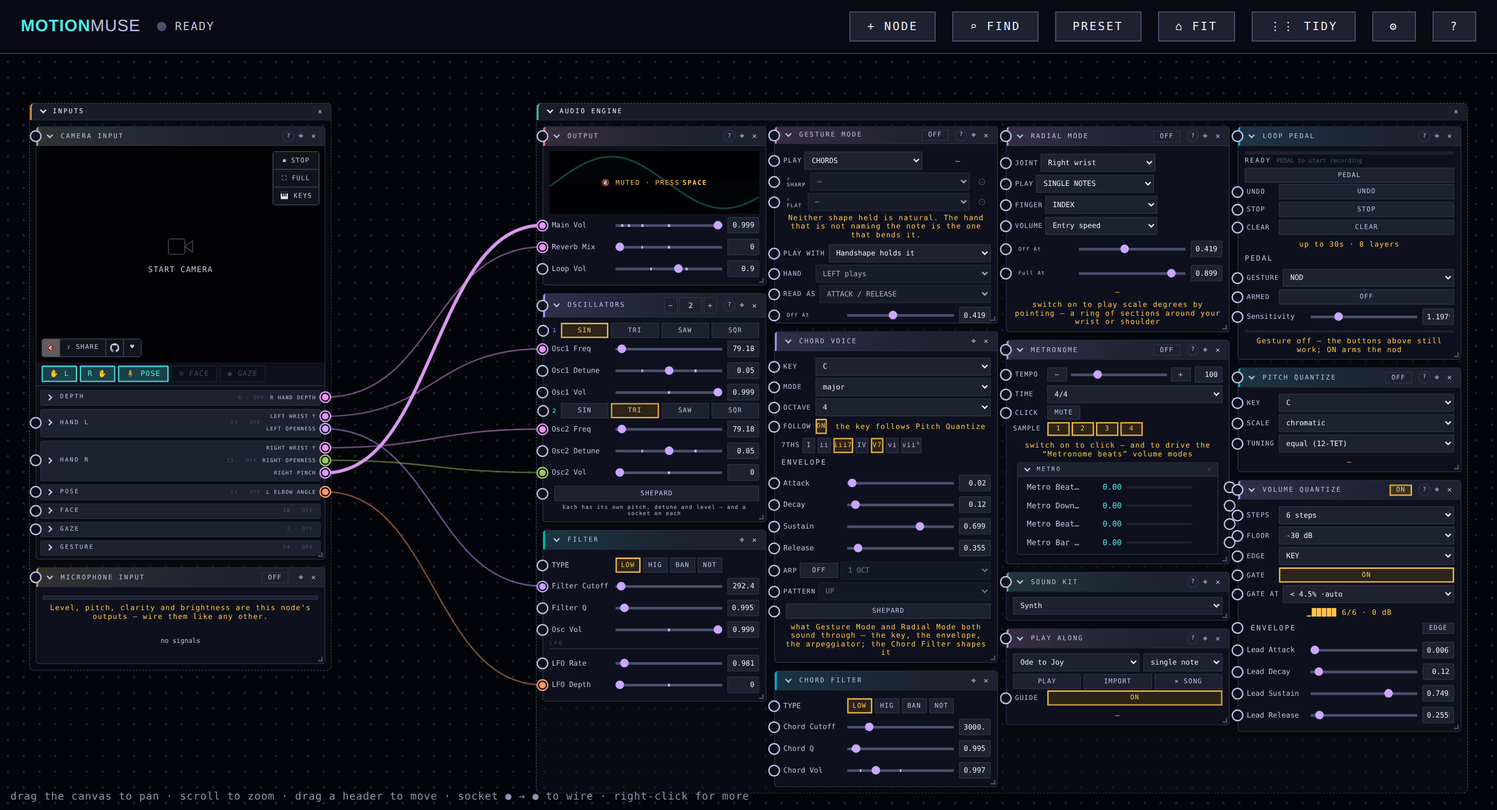
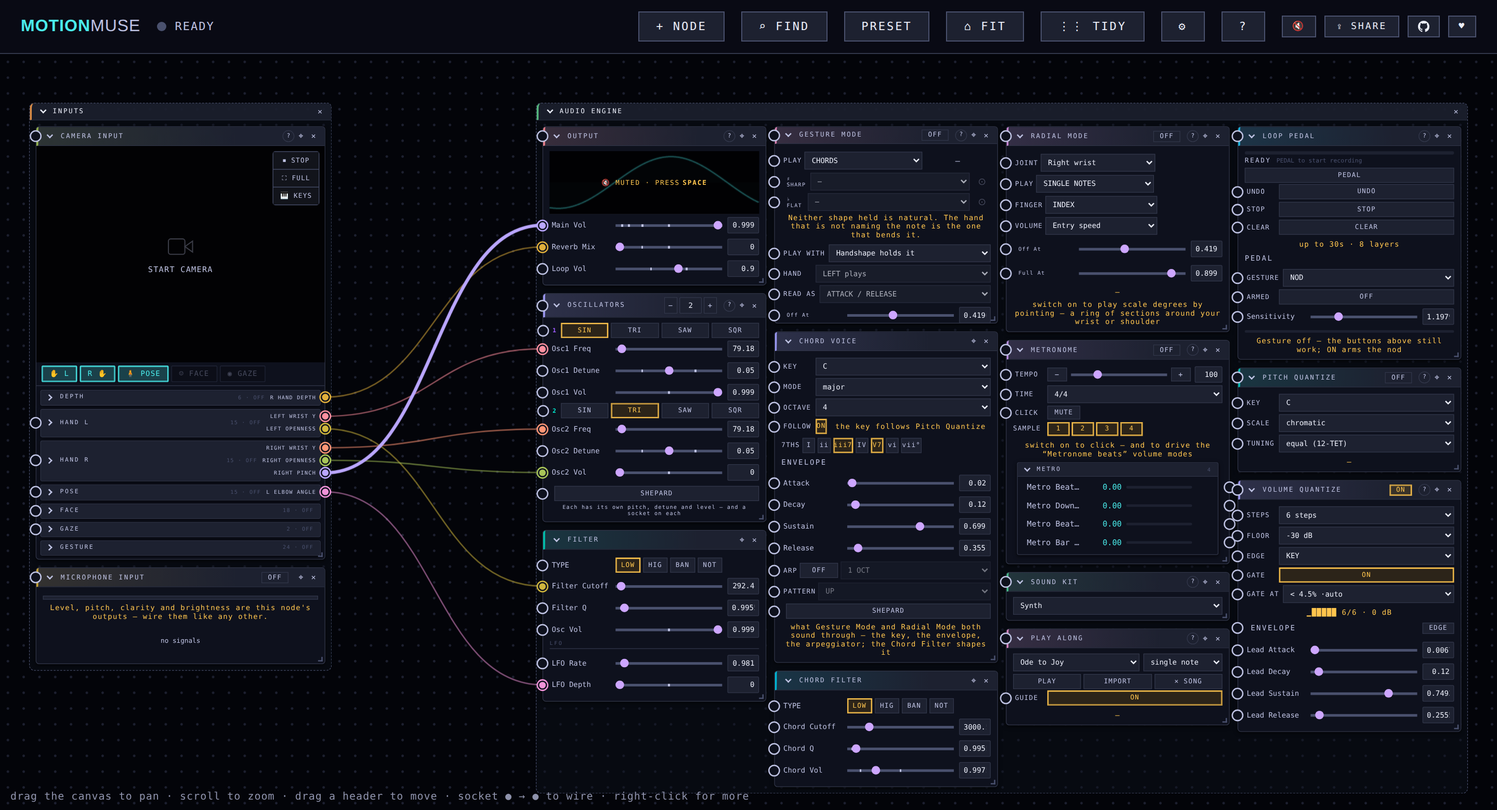
The picture's strip joins the bar; FIT leaves the column; hues by the golden angle
Mute, SHARE, the source link and ♥ used to sit bottom-left on the
picture. They are controls of the tool, not of the picture, so they are
in the header bar now with everything else of that kind — a row of
their own under the buttons on a phone. Fullscreen has no bar, so
ui/fullscreen.js moves the same strip onto the picture for the duration
and back; the ♥ popover is fixed and placed beside the ♥ wherever it is,
opening upward from a phone's bottom bar or the fullscreen edge.

FIT is hidden in the column like TIDY: a column is already fitted, and
a pinch in is its map.

Signal colours walk the hue wheel by the golden angle — each signal, in
the order the bus registers them, sits 360°/φ round from the one before
— so neighbouring sockets and the cables from them are never alike, and
no run of them cycles back onto itself. A signal's colour is the same
every visit, because the order is the boot order.

Tests: the camera-controls checks read the strip in the header when
windowed and on the picture in fullscreen; the column checks FIT and
TIDY hidden and open the map by call; a hue-gap check at every width.
Screenshot regenerated.

Claude-Session: https://claude.ai/code/session_01BeH99B2SGqBgjwvZViFus7

diff --git a/tests/layout/index.js b/tests/layout/index.js
@@ -333,7 +333,20 @@ for (const width of WIDTHS) {
         });
         return { outs: outs.length, offOut: offOut.length, ins: ins.length, offIn: offIn.map(p => p.dataset.key) };
       })(),
+
     };
+  });
+
+  // Neighbouring sockets in a list are never alike: hues walk the wheel by
+  // the golden angle, so two in a row are at least a third of it apart.
+  const hues = await page.evaluate(async () => {
+    const { sigColor } = await import('/src/ui/mapper-ui.js');
+    const hue = k => parseFloat(/oklch\([^)]*?\s([\d.]+)\)/.exec(sigColor(k))?.[1] ?? 'NaN');
+    const keys = [...document.querySelectorAll('#cam-signals .sig-sec-body .port-out')].map(p => p.dataset.key);
+    const hs = keys.map(hue);
+    const gaps = [];
+    for (let i = 1; i < hs.length; i++) { const d = Math.abs(hs[i] - hs[i - 1]) % 360; gaps.push(Math.min(d, 360 - d)); }
+    return { n: keys.length, min: gaps.length ? Math.round(Math.min(...gaps)) : null, nan: hs.filter(Number.isNaN).length };
   });
 
   // Every slider takes a typed value (ui/numeric.js).
@@ -380,7 +393,7 @@ for (const width of WIDTHS) {
     };
   });
 
-  results.push({ width, off, on, nodes, sigPanel, nums, errs });
+  results.push({ width, off, on, nodes, sigPanel, nums, hues, errs });
   await page.close();
 }
 
@@ -916,6 +929,7 @@ const column = await (async () => {
       camW: Math.round(document.querySelector('[data-node="panel:camera"]').getBoundingClientRect().width),
       scrollTop: ws.scrollTop,
       dockFirst: ws.firstElementChild.id,
+      fitHidden: document.getElementById('fit-btn').hidden, tidyHidden: document.getElementById('tidy-btn').hidden,
     };
   });
   const fresh = await probe();
@@ -938,7 +952,8 @@ const column = await (async () => {
 
   // ⌂ is the map: the whole stack scaled to the screen; a tap on it scrolls
   // to the node under the finger.
-  await page.click('#fit-btn');
+  // The map, as a pinch in would open it (⌂ is not shown in the column).
+  await page.evaluate(async () => (await import('/src/ui/workspace.js')).enterOverview());
   await page.waitForTimeout(150);
   const map = await page.evaluate(async () => {
     const WS = await import('/src/ui/workspace.js');
@@ -1602,8 +1617,13 @@ const camctl = await (async () => {
                  right: Math.round((frame.right - r.right) / k), bottom: Math.round((frame.bottom - r.bottom) / k) },
       };
     };
+    const actionsEl = document.querySelector('.cam-actions');
+    const header = document.getElementById('header').getBoundingClientRect();
     return {
       ctrlH: tok('--cam-ctrl-h'), inset: tok('--cam-inset'), radius: tok('--cam-radius'),
+      actionsInHeader: actionsEl.parentElement.id === 'header',
+      actionsOnPicture: wrap.contains(actionsEl),
+      actionsInBar: [...actionsEl.children].every(c => { const r = c.getBoundingClientRect(); return r.top >= header.top - 0.5 && r.bottom <= header.bottom + 0.5; }),
       actions: bar('.cam-actions'), toggles: bar('.cam-toggles'),
       nameH: (() => {
         const n = document.getElementById('cam-name');
@@ -2177,7 +2197,7 @@ const check = (ok, label, detail = '') => {
 
 console.log('\nHeader and workspace — every breakpoint, camera off and on\n');
 
-for (const { width, off, on, nodes: n, sigPanel, nums, errs } of results) {
+for (const { width, off, on, nodes: n, sigPanel, nums, hues, errs } of results) {
   const w = `${width}px`;
   check(errs.length === 0, `${w}: no page errors`, errs.join(' | '));
 
@@ -2259,6 +2279,8 @@ for (const { width, off, on, nodes: n, sigPanel, nums, errs } of results) {
     `${w}: every channel of the camera's list is an output socket`, `${sp.srcs} sockets for ${sp.vals} channels`);
   check(sp.onEdge.outs > 0 && sp.onEdge.offOut === 0,
     `${w}: every output socket is centred on the camera node's right border`, `${sp.onEdge.offOut} of ${sp.onEdge.outs} off the edge`);
+  check(hues.n > 5 && hues.nan === 0 && hues.min >= 60,
+    `${w}: neighbouring sockets are never alike in colour`, `${hues.n} sockets, closest pair ${hues.min}° apart`);
   check(sp.onEdge.ins > 0 && sp.onEdge.offIn.length === 0,
     `${w}: every slider's input socket is centred on its node's left border`, sp.onEdge.offIn.join(' '));
 
@@ -2410,6 +2432,7 @@ console.log('\nThe column (a phone)\n');
   check(fresh.order[0] === 'group:inputs' && fresh.order.includes('group:audio'),
     'column: the inputs come first, the engine after', fresh.order.join(','));
   check(fresh.dockFirst === 'ws-dock', 'column: the dock rides the top of the viewport', fresh.dockFirst);
+  check(fresh.fitHidden && fresh.tidyHidden, 'column: FIT and TIDY, which arrange a canvas, are not shown', `fit=${fresh.fitHidden} tidy=${fresh.tidyHidden}`);
   check(wires.length === 2 && wires.every(w => !w.curve && w.inside && w.corners >= 2),
     'column: cables run the gutters — orthogonal, and on the screen', JSON.stringify(wires));
   check(wires.length === 2 && wires[0].lane !== wires[1].lane,
@@ -2627,27 +2650,34 @@ console.log('\nSaved setups\n');
 console.log('\nCamera-view controls\n');
 {
   check(camctl.errs.length === 0, 'no page errors', camctl.errs.join(' | '));
+  check(camctl.small.actionsInHeader && camctl.small.actionsInBar && !camctl.small.actionsOnPicture,
+    'windowed: the sound, SHARE, source and ♥ sit in the header bar', JSON.stringify({ header: camctl.small.actionsInHeader, inBar: camctl.small.actionsInBar }));
+  check(camctl.small.actions.segs.length === 4, 'windowed: all four of them', String(camctl.small.actions.segs.length));
+  check(camctl.full.actionsOnPicture && !camctl.full.actionsInHeader,
+    'fullscreen: the strip rides the picture, where there is no bar', String(camctl.full.actionsOnPicture));
   for (const [view, m] of [['windowed', camctl.small], ['fullscreen', camctl.full]]) {
-    const segs = [...m.actions.segs, ...m.toggles.segs];
-    check(segs.length >= 6, `${view}: both strips have their controls`, `${segs.length} segments`);
+    // Windowed, only the picture's own strip is on the picture.
+    const segs = view === 'fullscreen' ? [...m.actions.segs, ...m.toggles.segs] : m.toggles.segs;
+    check(segs.length >= (view === 'fullscreen' ? 6 : 2), `${view}: the strips on the picture have their controls`, `${segs.length} segments`);
     const heights = [...new Set(segs.map(s => s.h))];
     check(heights.length === 1 && heights[0] === m.ctrlH, `${view}: every control is exactly one height`,
       `${heights.join('/')} against --cam-ctrl-h ${m.ctrlH}`);
     check(m.nameH === m.ctrlH, `${view}: the name caption shares it, so the top edge is one line`, `${m.nameH} vs ${m.ctrlH}`);
     const icons = segs.filter(s => !s.labelled);
-    check(icons.length >= 3 && icons.every(s => s.w === m.ctrlH), `${view}: a control with no label is a square`,
+    check(icons.every(s => s.w === m.ctrlH) && (view !== 'fullscreen' || icons.length >= 3), `${view}: a control with no label is a square`,
       icons.map(s => `${s.id} ${s.w}x${s.h}`).join(' '));
     check(segs.filter(s => s.labelled).every(s => s.w > m.ctrlH), `${view}: a labelled one grows sideways only`);
     const stacked = [...new Set(m.toggles.segs.map(s => s.w))];
     check(stacked.length === 1, `${view}: the stacked strip has one width`, stacked.join('/'));
     check(segs.every(s => s.border === 0), `${view}: segments carry no border of their own`,
       segs.filter(s => s.border !== 0).map(s => s.id).join(' '));
-    check(m.actions.gap === 1 && m.toggles.gap === 1, `${view}: dividers are hairlines`, `${m.actions.gap} / ${m.toggles.gap}`);
-    check(m.actions.radius === m.radius && m.toggles.radius === m.radius, `${view}: one corner radius`,
+    const onPic = view === 'fullscreen';
+    check((!onPic || m.actions.gap === 1) && m.toggles.gap === 1, `${view}: dividers are hairlines`, `${m.actions.gap} / ${m.toggles.gap}`);
+    check((!onPic || m.actions.radius === m.radius) && m.toggles.radius === m.radius, `${view}: one corner radius`,
       `${m.actions.radius} / ${m.toggles.radius} vs ${m.radius}`);
-    check(m.actions.inset.left === m.inset && m.actions.inset.bottom === m.inset
+    check((!onPic || (m.actions.inset.left === m.inset && m.actions.inset.bottom === m.inset))
        && m.toggles.inset.right === m.inset && m.toggles.inset.top === m.inset,
-      `${view}: both strips sit at the shared inset`, `${JSON.stringify(m.actions.inset)} ${JSON.stringify(m.toggles.inset)}`);
+      `${view}: the strips on the picture sit at the shared inset`, `${JSON.stringify(m.actions.inset)} ${JSON.stringify(m.toggles.inset)}`);
     check(m.emptyBadge === 0, `${view}: an unnamed setup leaves no empty badge on the picture`);
   }
   check(camctl.full.ctrlH > camctl.small.ctrlH && camctl.full.inset > camctl.small.inset,

diff --git a/index.html b/index.html
@@ -53,6 +53,23 @@
               title="Settings — theme, hotkeys and other controls for the tool rather than the sound">⚙</button>
       <button class="btn" id="tour-btn" title="Guided tour">?</button>
     </div>
+    <!-- What you reach for while playing, or while handing the thing to
+         someone else — the sound, SHARE, the source, ♥ — in the bar, where
+         every other control of the tool is. In fullscreen there is no bar,
+         so ui/fullscreen.js moves this strip onto the picture for the
+         duration and back. -->
+    <div class="cam-bar cam-actions">
+      <button class="depth-toggle cam-ico-only muted" id="audio-btn" aria-pressed="true"
+              title="Mute / unmute — the engine is always running, this is the output"><span class="btn-text">🔇</span></button>
+      <button class="depth-toggle" id="share-btn" aria-haspopup="dialog" aria-expanded="false"
+              title="Show a QR code of this setup — someone can scan it to open the app configured the same way">⇪ SHARE</button>
+      <a class="depth-toggle cam-ico-only" id="repo-link" href="https://github.com/Dentarthurdent42/MotionMuse"
+         target="_blank" rel="noopener" title="Source code on GitHub" aria-label="Source code on GitHub">
+        <svg viewBox="0 0 16 16" width="11" height="11" fill="currentColor" aria-hidden="true"><path d="M8 0C3.58 0 0 3.58 0 8c0 3.54 2.29 6.53 5.47 7.59.4.07.55-.17.55-.38 0-.19-.01-.82-.01-1.49-2.01.37-2.53-.49-2.69-.94-.09-.23-.48-.94-.82-1.13-.28-.15-.68-.52-.01-.53.63-.01 1.08.58 1.23.82.72 1.21 1.87.87 2.33.66.07-.52.28-.87.51-1.07-1.78-.2-3.64-.89-3.64-3.95 0-.87.31-1.59.82-2.15-.08-.2-.36-1.02.08-2.12 0 0 .67-.21 2.2.82a7.6 7.6 0 0 1 2-.27c.68 0 1.36.09 2 .27 1.53-1.04 2.2-.82 2.2-.82.44 1.1.16 1.92.08 2.12.51.56.82 1.27.82 2.15 0 3.07-1.87 3.75-3.65 3.95.29.25.54.73.54 1.48 0 1.07-.01 1.93-.01 2.2 0 .21.15.46.55.38A8.01 8.01 0 0 0 16 8c0-4.42-3.58-8-8-8Z"/></svg>
+      </a>
+      <button class="depth-toggle cam-ico-only" id="donate-btn" aria-haspopup="menu" aria-expanded="false"
+              title="Support this project — donation links">♥</button>
+    </div>
   </header>
 
   <!-- ── Main: the workspace ─────────────────────────────────
@@ -96,20 +113,6 @@
           <canvas id="face-overlay"></canvas>
           <!-- Which of YOUR setups is playing, if it is one of yours. -->
           <div class="cam-name" id="cam-name" hidden></div>
-          <!-- What you reach for while playing, or while handing the thing to
-               someone else: on the picture, where your eyes already are. -->
-          <div class="cam-bar cam-actions">
-            <button class="depth-toggle cam-ico-only muted" id="audio-btn" aria-pressed="true"
-                    title="Mute / unmute — the engine is always running, this is the output"><span class="btn-text">🔇</span></button>
-            <button class="depth-toggle" id="share-btn" aria-haspopup="dialog" aria-expanded="false"
-                    title="Show a QR code of this setup — someone can scan it to open the app configured the same way">⇪ SHARE</button>
-            <a class="depth-toggle cam-ico-only" id="repo-link" href="https://github.com/Dentarthurdent42/MotionMuse"
-               target="_blank" rel="noopener" title="Source code on GitHub" aria-label="Source code on GitHub">
-              <svg viewBox="0 0 16 16" width="11" height="11" fill="currentColor" aria-hidden="true"><path d="M8 0C3.58 0 0 3.58 0 8c0 3.54 2.29 6.53 5.47 7.59.4.07.55-.17.55-.38 0-.19-.01-.82-.01-1.49-2.01.37-2.53-.49-2.69-.94-.09-.23-.48-.94-.82-1.13-.28-.15-.68-.52-.01-.53.63-.01 1.08.58 1.23.82.72 1.21 1.87.87 2.33.66.07-.52.28-.87.51-1.07-1.78-.2-3.64-.89-3.64-3.95 0-.87.31-1.59.82-2.15-.08-.2-.36-1.02.08-2.12 0 0 .67-.21 2.2.82a7.6 7.6 0 0 1 2-.27c.68 0 1.36.09 2 .27 1.53-1.04 2.2-.82 2.2-.82.44 1.1.16 1.92.08 2.12.51.56.82 1.27.82 2.15 0 3.07-1.87 3.75-3.65 3.95.29.25.54.73.54 1.48 0 1.07-.01 1.93-.01 2.2 0 .21.15.46.55.38A8.01 8.01 0 0 0 16 8c0-4.42-3.58-8-8-8Z"/></svg>
-            </a>
-            <button class="depth-toggle cam-ico-only" id="donate-btn" aria-haspopup="menu" aria-expanded="false"
-                    title="Support this project — donation links">♥</button>
-          </div>
           <!-- The picture's own modes. EXIT belongs to fullscreen: it is the
                same button as FULL, and it stays on the picture it applies to
                — the one thing on the canvas deliberately not separable. -->

diff --git a/css/main.css b/css/main.css
@@ -430,6 +430,23 @@ html, body {
   bottom: calc(var(--cam-inset) + var(--fs-kbd-h, 0px));
   left: var(--cam-inset);
 }
+/* In the header the strip is a row of the bar's own buttons — the same
+   segments, dressed as .btn — until fullscreen takes it onto the picture. */
+#header > .cam-actions {
+  position: static;
+  background: none; padding: 0; gap: 8px; overflow: visible; border-radius: 0;
+}
+#header > .cam-actions .depth-toggle {
+  height: auto; min-width: 0;
+  padding: 4px 11px;
+  background: var(--faint);
+  border: 1px solid var(--border2);
+  color: var(--text);
+  font-size: 9px; letter-spacing: 1.5px; text-transform: uppercase;
+  transition: border-color 0.15s, color 0.15s, background 0.15s;
+}
+#header > .cam-actions .cam-ico-only { width: auto; padding: 4px 9px; }
+#header > .cam-actions .depth-toggle svg { width: 11px; height: 11px; }
 /* Muted is a state, not a disabled control — amber, as it was in the header. */
 #audio-btn.muted { color: var(--amber); border-color: var(--amber); background: #f0a50022; }
 
@@ -663,10 +680,8 @@ a.btn { text-decoration: none; display: inline-flex; align-items: center; }
    after the button moved, which put it a panel away from the ♥ that opened
    it, and nowhere at all in fullscreen. */
 #donate-pop {
-  position: absolute;
-  left: var(--cam-inset);
-  bottom: calc(var(--cam-inset) + var(--fs-kbd-h, 0px) + var(--cam-ctrl-h) + 6px);
-  z-index: 60;
+  position: fixed;          /* placed beside the ♥ by ui/donate.js */
+  z-index: 1100;            /* above the fullscreen picture too */
   min-width: 170px;
   background: var(--panel);
   border: 1px solid var(--border2);
@@ -2347,7 +2362,10 @@ body.ws-resizing .node-grip::after { border-color: var(--cyan); }
   /* One row of buttons: the wide ones share the width, the two glyphs keep
      a thumb's width — so nothing wraps onto a row of its own. */
   .hbtns > .btn, .hbtns > .hdr-menu { flex: 1 1 auto; min-width: 0; }   /* outranks .btn's flex-shrink: 0 */
-  #header [hidden] { display: none; }        /* TIDY, which the column has no use for */
+  #header [hidden] { display: none; }        /* FIT and TIDY, which the column has no use for */
+  /* The picture's strip: a row of its own under the buttons. */
+  #header > .cam-actions { width: 100%; justify-content: center; gap: 6px; }
+  #header > .cam-actions .depth-toggle { flex: 1 1 auto; min-height: 36px; }
   .hbtns .btn { padding-left: 4px; padding-right: 4px; }
   .hbtns .hdr-menu > .btn { flex: 1 1 auto; min-width: 0; }
   .hbtns > #settings-btn, .hbtns > #tour-btn { flex: 0 0 40px; }

diff --git a/src/ui/donate.js b/src/ui/donate.js
@@ -26,12 +26,24 @@ export function initDonate() {
     ${LINKS.map(([name, url]) => `
       <a href="${url}" target="_blank" rel="noopener" role="menuitem">${name} ↗</a>`).join('')}
   `;
-  (document.getElementById('video-wrap') ?? btn.parentElement).appendChild(pop);
+  document.body.appendChild(pop);
 
+  // Beside the ♥, wherever it is: under it in the header, above it when the
+  // bar is at the bottom of a phone's screen or the ♥ is on the fullscreen
+  // picture's lower edge. Fixed, so a transformed ancestor cannot move it.
+  const place = () => {
+    const r = btn.getBoundingClientRect();
+    const up = r.top > window.innerHeight / 2;
+    pop.style.left = `${Math.round(Math.max(6, Math.min(r.left, window.innerWidth - pop.offsetWidth - 6)))}px`;
+    pop.style.top = up ? 'auto' : `${Math.round(r.bottom + 4)}px`;
+    pop.style.bottom = up ? `${Math.round(window.innerHeight - r.top + 4)}px` : 'auto';
+  };
   const setOpen = open => {
     pop.hidden = !open;
     btn.setAttribute('aria-expanded', String(open));
+    if (open) place();
   };
+  window.addEventListener('resize', () => { if (!pop.hidden) place(); });
   btn.addEventListener('click', e => { e.stopPropagation(); setOpen(pop.hidden); });
   document.addEventListener('click', e => {
     if (!pop.hidden && !pop.contains(e.target)) setOpen(false);

diff --git a/src/ui/mapper-ui.js b/src/ui/mapper-ui.js
@@ -52,10 +52,18 @@ const humanizeKey = k => String(k)
 export const sigLabel = k => bus.signals.get(k)?.label ?? humanizeKey(k);
 const paramLabel = k => engine.PARAMS[k]?.label ?? humanizeKey(k);
 
-// Stable, legible cable/socket colour per signal (OKLab hue from a hash).
+// A legible cable/socket colour per signal: hues walk the wheel by the
+// golden angle — each signal, in the order the bus registers them, sits
+// 360°/φ (≈137.5°) round from the one before, so the neighbours in any
+// list are never alike and no run of them ever cycles back onto itself.
+// The order is the boot order, so a signal's colour is the same every
+// visit; a signal the bus does not know falls back to a hash of its name.
+const GOLDEN_ANGLE = 360 / ((1 + Math.sqrt(5)) / 2);
 function sigHue(key) {
+  const i = [...bus.signals.keys()].indexOf(key);
+  if (i >= 0) return +((i * GOLDEN_ANGLE) % 360).toFixed(2);
   let h = 0;
-  for (let i = 0; i < key.length; i++) h = (h * 31 + key.charCodeAt(i)) % 360;
+  for (let c = 0; c < key.length; c++) h = (h * 31 + key.charCodeAt(c)) % 360;
   return h;
 }
 export const sigColor = key => key ? `oklch(0.78 0.14 ${sigHue(key)})` : 'oklch(0.6 0 0)';

diff --git a/src/ui/fullscreen.js b/src/ui/fullscreen.js
@@ -37,8 +37,18 @@ export const fullscreen = {
   onChange(cb) { changeCbs.push(cb); },
 };
 
+// The actions strip (mute, SHARE, source, ♥) lives in the header, which
+// fullscreen hides — so it rides the picture while fullscreen is on.
+function placeActions(active) {
+  const bar = document.querySelector('.cam-actions');
+  if (!bar) return;
+  const home = active ? wrap : document.getElementById('header');
+  if (bar.parentElement !== home) home.appendChild(bar);
+}
+
 function syncState(active) {
   wrap.classList.toggle('fs-active', active);
+  placeActions(active);
   fsBtn.textContent = active ? '✕ EXIT' : '⛶ FULL';
   fsBtn.classList.toggle('on', active);
   // The overlay is sized as a share of the frame, and the frame just changed

diff --git a/src/ui/workspace.js b/src/ui/workspace.js
@@ -796,8 +796,10 @@ function applyModeChrome() {
     world.style.height = '';
     initZoom();
   }
-  // TIDY arranges a canvas; a column is already arranged.
+  // TIDY arranges a canvas, and FIT fits one; a column is already arranged
+  // and a pinch is its map.
   document.getElementById('tidy-btn')?.toggleAttribute('hidden', col);
+  document.getElementById('fit-btn')?.toggleAttribute('hidden', col);
   const hint = ws.querySelector('.ws-hint');
   if (hint) {
     hint.dataset.canvas ??= hint.textContent;

diff --git a/README.md b/README.md
@@ -38,7 +38,7 @@ Webcam → MediaPipe (Hand + Pose) → Signal Bus → Mapper → Web Audio Engin
 - **Signal Bus** (`src/bus.js`): a central `Map` of named signals (e.g. `hand_L_y`, `pinch_R`, `elbow_L`). Any source can `register` and `update` signals; any consumer can `norm`-alise them to 0–1. Registering with `velocity: true` also creates a `<key>_vel` sibling the bus keeps fed with the rate of change — see [Velocities](#velocities--every-measure-also-reports-how-fast-it-is-changing).
 - **Tracking toggles**: **✋ L**, **R ✋**, **🧍 POSE**, **☺ FACE** and **◉ GAZE** — one row of chips inside **Camera Input**, under the picture — switch each model off outright. (They live with that input because what the camera tracks is a property of it, not of the app's header; they are beside the picture rather than on top of it because a control over the frame covers the thing you are watching. Hands and pose can be set before the camera starts; face and gaze wake once there is a stream to run on.) Hand tracking costs roughly twice what pose does and is normally the frame-rate bottleneck, so this is the bluntest lever available. With hands and pose both on the two models alternate frames; with one off, **the other runs every frame** rather than idling on its turn. Left and right are separate for a reason beyond cost: handedness is a **guess**, inferred from the hand's appearance, and a single hand at an odd angle gets mislabelled — silently swapping every signal it drives to the other side's keys. Enabling exactly one side skips the guess entirely (whatever is detected *is* that hand) and drops `numHands` to 1, so the landmark stage runs once. Dev mode's **MODELS** panel adds the pose model size and the `GPU`/`CPU` delegate, which applies to *both* models.
 - **CV Source** (`src/cv.js`): runs MediaPipe `HandLandmarker` plus a swappable **pose backend** (`src/posebackends.js` — MediaPipe lite/full/heavy or TF.js MoveNet), extracts ~30 signals per frame, and writes them into the bus. Hand and pose inference **alternate frames** (each still ≥15 Hz at a 30 fps camera) so per-frame cost stays half of running both, and every positional signal passes through a per-signal **One-Euro filter** (`src/filter.js`, applied in `bus.update`) — the standard low-latency jitter filter: heavy smoothing on a held pose, light smoothing on fast moves.
-- **Mapper** (`src/mapper.js`): each mapping takes one signal, applies a curve (linear, quad, cubic, log, sqrt, invert, invert+ease), scales it to an output range, and writes it to an audio parameter on every RAF tick. It's presented as a **node graph** on the workspace canvas (`src/ui/mapper-ui.js`) à la Blender geometry nodes / UE Blueprints: every **signal** is an output socket ● on the node that measures it (the trackers' signals are listed inside **Camera Input**, the microphone's on **Microphone**, the metronome's on **Metronome**, a function node's on the function node), every **parameter** is an input socket ● beside the control that shows it, on the node that owns it (cutoff on **Filter**, Main Vol on **Output**, KEY ROOT on **Pitch Quantize** — `src/params.js` keeps the map), and the two are joined by colour-coded bezier **cables** across the same canvas the panels sit on (see [The workspace](#the-workspace-everything-is-a-node)). Crucially an output socket **fans out** — reuse a signal by wiring it to as many parameters as you like; each input takes one incoming cable, and a new one replaces the old. Drag from any ● to any ● of the other side, in either direction, to connect (or tap one, then the other) — sockets carry an oversized invisible tap target, and a release lands on the nearest eligible socket within a fingertip's radius, so wiring works with a thumb and not just a mouse. A node's header moves the node; only a socket starts a cable. A cable's width/opacity pulses with its live value (see *Two bars, two different numbers* below); range and curve stay hidden until you click a cable (or make one, or right-click a wired input socket), which opens the editor as a floating popover beside it — Escape or a click elsewhere closes it — and hovering a cable highlights it while dimming the rest, so wires stay easy to follow. Any cable can also be **inverted** with its `⇅ INVERT` toggle — the input's high end then drives the output's low end, which composes with (rather than replaces) the curve, so any response shape can run either way round. A cable can also be **quantised into N discrete levels** with its `steps` field (applied after the curve, so pair it with `log`/`quad` for perceptual spacing) — a stepped filter cutoff gives you a handful of definite timbres instead of a continuous smear. Switches, choices and counts take a cable too (`src/controls.js`): FILTER TYPE, CHORD FILTER TYPE, KEY ROOT, KEY SCALE, TEMPO, the two quantisers' on switches and GATE, METRONOME on, ARP on and ARP PATTERN, the **number of oscillators** (the socket on the Oscillators node's header — a cable there adds and removes voices as it rises and falls, and a cable to a slot that has gone is kept, undrawn, until the slot is back), and the **on/off of GESTURE MODE, RADIAL MODE and the MICROPHONE** (the socket on each node's header) are registered as engine parameters whose value is an index into their options (0/1 for a switch, bpm for the tempo, a count for the bank) with an `apply` hook the engine calls on set; a cable into one gets `steps` = its option count by default, so a hand's travel lands *on* a filter type rather than between two, and the hook only acts when the rounded value changes — the panel's own buttons keep working, and the editor reads "now LOWPASS". Wire a hand's height into KEY ROOT and the scale transposes as you rise; wire a pulse into ARP ON and it switches. Cables come from wiring by hand and from presets; the **+ NODE** menu (also right-click or double-click the canvas — searchable) adds function nodes, brings closed panels back and groups the selection. The sockets are parts of their nodes, so deleting a cable (its × in the editor) leaves both ends in place to be re-wired, and an input *remembers* its range, curve, steps and invert flag, so wiring a different signal into it (or unplugging and re-plugging) doesn't reset them. For **oscillator-frequency** cables the range editor grows a tone picker: a labeled piano keyboard, QWERTY playing (`A W S E D F T G Y H U J` = C…B, `Z`/`X` shift octave) while the editor is open, **−**/**+** semitone nudges, and min/max fields that accept note names (`A4`, `Db3`) as well as Hz — every pick is auditioned through the one-shot voice. **SET MIN** / **SET MAX** choose which endpoint the next pick sets, and the choice *stays put*: keep tapping or nudging to correct MIN until you explicitly press SET MAX. On narrow screens the keyboard renders wider than the panel and scrolls horizontally, so individual keys stay big enough to tap (a horizontal drag pans instead of picking).
+- **Mapper** (`src/mapper.js`): each mapping takes one signal, applies a curve (linear, quad, cubic, log, sqrt, invert, invert+ease), scales it to an output range, and writes it to an audio parameter on every RAF tick. It's presented as a **node graph** on the workspace canvas (`src/ui/mapper-ui.js`) à la Blender geometry nodes / UE Blueprints: every **signal** is an output socket ● on the node that measures it (the trackers' signals are listed inside **Camera Input**, the microphone's on **Microphone**, the metronome's on **Metronome**, a function node's on the function node), every **parameter** is an input socket ● beside the control that shows it, on the node that owns it (cutoff on **Filter**, Main Vol on **Output**, KEY ROOT on **Pitch Quantize** — `src/params.js` keeps the map), and the two are joined by colour-coded bezier **cables** (a hue per signal, walking the wheel by the golden angle so neighbours are never alike) across the same canvas the panels sit on (see [The workspace](#the-workspace-everything-is-a-node)). Crucially an output socket **fans out** — reuse a signal by wiring it to as many parameters as you like; each input takes one incoming cable, and a new one replaces the old. Drag from any ● to any ● of the other side, in either direction, to connect (or tap one, then the other) — sockets carry an oversized invisible tap target, and a release lands on the nearest eligible socket within a fingertip's radius, so wiring works with a thumb and not just a mouse. A node's header moves the node; only a socket starts a cable. A cable's width/opacity pulses with its live value (see *Two bars, two different numbers* below); range and curve stay hidden until you click a cable (or make one, or right-click a wired input socket), which opens the editor as a floating popover beside it — Escape or a click elsewhere closes it — and hovering a cable highlights it while dimming the rest, so wires stay easy to follow. Any cable can also be **inverted** with its `⇅ INVERT` toggle — the input's high end then drives the output's low end, which composes with (rather than replaces) the curve, so any response shape can run either way round. A cable can also be **quantised into N discrete levels** with its `steps` field (applied after the curve, so pair it with `log`/`quad` for perceptual spacing) — a stepped filter cutoff gives you a handful of definite timbres instead of a continuous smear. Switches, choices and counts take a cable too (`src/controls.js`): FILTER TYPE, CHORD FILTER TYPE, KEY ROOT, KEY SCALE, TEMPO, the two quantisers' on switches and GATE, METRONOME on, ARP on and ARP PATTERN, the **number of oscillators** (the socket on the Oscillators node's header — a cable there adds and removes voices as it rises and falls, and a cable to a slot that has gone is kept, undrawn, until the slot is back), and the **on/off of GESTURE MODE, RADIAL MODE and the MICROPHONE** (the socket on each node's header) are registered as engine parameters whose value is an index into their options (0/1 for a switch, bpm for the tempo, a count for the bank) with an `apply` hook the engine calls on set; a cable into one gets `steps` = its option count by default, so a hand's travel lands *on* a filter type rather than between two, and the hook only acts when the rounded value changes — the panel's own buttons keep working, and the editor reads "now LOWPASS". Wire a hand's height into KEY ROOT and the scale transposes as you rise; wire a pulse into ARP ON and it switches. Cables come from wiring by hand and from presets; the **+ NODE** menu (also right-click or double-click the canvas — searchable) adds function nodes, brings closed panels back and groups the selection. The sockets are parts of their nodes, so deleting a cable (its × in the editor) leaves both ends in place to be re-wired, and an input *remembers* its range, curve, steps and invert flag, so wiring a different signal into it (or unplugging and re-plugging) doesn't reset them. For **oscillator-frequency** cables the range editor grows a tone picker: a labeled piano keyboard, QWERTY playing (`A W S E D F T G Y H U J` = C…B, `Z`/`X` shift octave) while the editor is open, **−**/**+** semitone nudges, and min/max fields that accept note names (`A4`, `Db3`) as well as Hz — every pick is auditioned through the one-shot voice. **SET MIN** / **SET MAX** choose which endpoint the next pick sets, and the choice *stays put*: keep tapping or nudging to correct MIN until you explicitly press SET MAX. On narrow screens the keyboard renders wider than the panel and scrolls horizontally, so individual keys stay big enough to tap (a horizontal drag pans instead of picking).
 - **Audio Engine** (`src/engine.js`): a **resizable oscillator bank** — one oscillator by default, up to eight, each with its own frequency, detune, waveform and **level** (`oscN_freq` / `oscN_detune` / `oscN_volume`) — through a BiquadFilter, and the chord-mode voice bank through a **second, independent filter and level** (`chord_filter_freq` / `chord_filter_q` / `chord_volume`, with `osc_volume` as the whole bank's level, the lead's counterpart to `chord_volume`). The two sources converge into a shared convolution reverb and main gain. All driven by the Web Audio API with 25 ms parameter smoothing. **Volume is the exception**: it snaps onto a perceptual step ladder and fires *one* envelope per level change instead of re-smoothing every frame — see Volume quantisation below. Sliders carry **magnetic snap points** at musically meaningful values (½ volume, centre detune, unity Q…) marked by tick notches — drag near one and the thumb detents onto it; signal-driven (mapped) values are never snapped.
 - **Scale quantiser** (`src/scale.js`): optionally snaps oscillator frequencies onto a musical scale, root and tuning system before they reach the engine.
 - **Dynamics** (`src/dynamics.js`): the volume step ladder — equal-loudness (dB) levels, an exact-silence bottom rung, and the sticky rounding that keeps a jittery hand from chattering between levels.
@@ -514,7 +514,7 @@ cable cannot cross a node that is the whole width of the column), nodes
 fold, pin, close and group, and the add menu is a long-press away. Position
 has just lost a dimension: a node's place is its **rank** in the column, a
 drag on its header moves it up or down (the column scrolls under it near the
-edges), and the stack closes up behind it. **Pinch in** (or ⌂) shows the whole
+edges), and the stack closes up behind it. **Pinch in** shows the whole
 column as a **map**; a tap on the map — or a pinch out over a node — scrolls
 to it. TIDY restores the shipped order. The column is its own store
 (`motionmuse-workspace-column`), so a phone's order and a desktop's
@@ -528,7 +528,8 @@ the top of the column (`src/ui/cam-sticky.js`), sits over its place in the
 node while that is on screen, and shrinks to a thumbnail in the top-right
 corner as you scroll past — so the tracking is always in view while you
 reach a slider three screens down; a tap on the thumbnail scrolls back up.
-TIDY, which arranges a canvas, is not shown in the column.
+FIT and TIDY, which fit and arrange a canvas, are not shown in the column
+— a pinch in is the map.
 The CSS fullscreen lifts the same picture out to fill the screen and puts it
 back where it found it on exit.
 
@@ -2102,13 +2103,14 @@ all:
   there is a picture that target is gone — covering the view with a button
   would be covering the instrument — and **⏹ STOP** takes its place in the
   strip beside ⛶ FULL.
-- **Mute, SHARE, the source link and ♥** sit bottom-left, opposite that
+- **Mute, SHARE, the source link and ♥** are in the header bar, where every
+  other control of the tool is — and in fullscreen, which has no bar, the
+  same strip rides the picture bottom-left, opposite the picture's own
   strip, so neither covers the other and the middle of the frame — where you
-  are — stays clear. Small and quiet: they never compete with what they sit
-  over. Mute keeps its amber, because muted is a *state*, not a disabled
-  control. The ♥ popover opens upward from there, and hangs off the frame
-  rather than off the strip — the strip clips its segments to its own rounded
-  corners, and would clip the popover with them.
+  are — stays clear. Mute keeps its amber, because muted is a *state*, not a
+  disabled control. The ♥ popover opens beside the ♥ wherever it is: under it
+  in the header, above it from a phone's bottom bar or the fullscreen
+  picture's lower edge.
 
 ### One system, not eight chips
 
